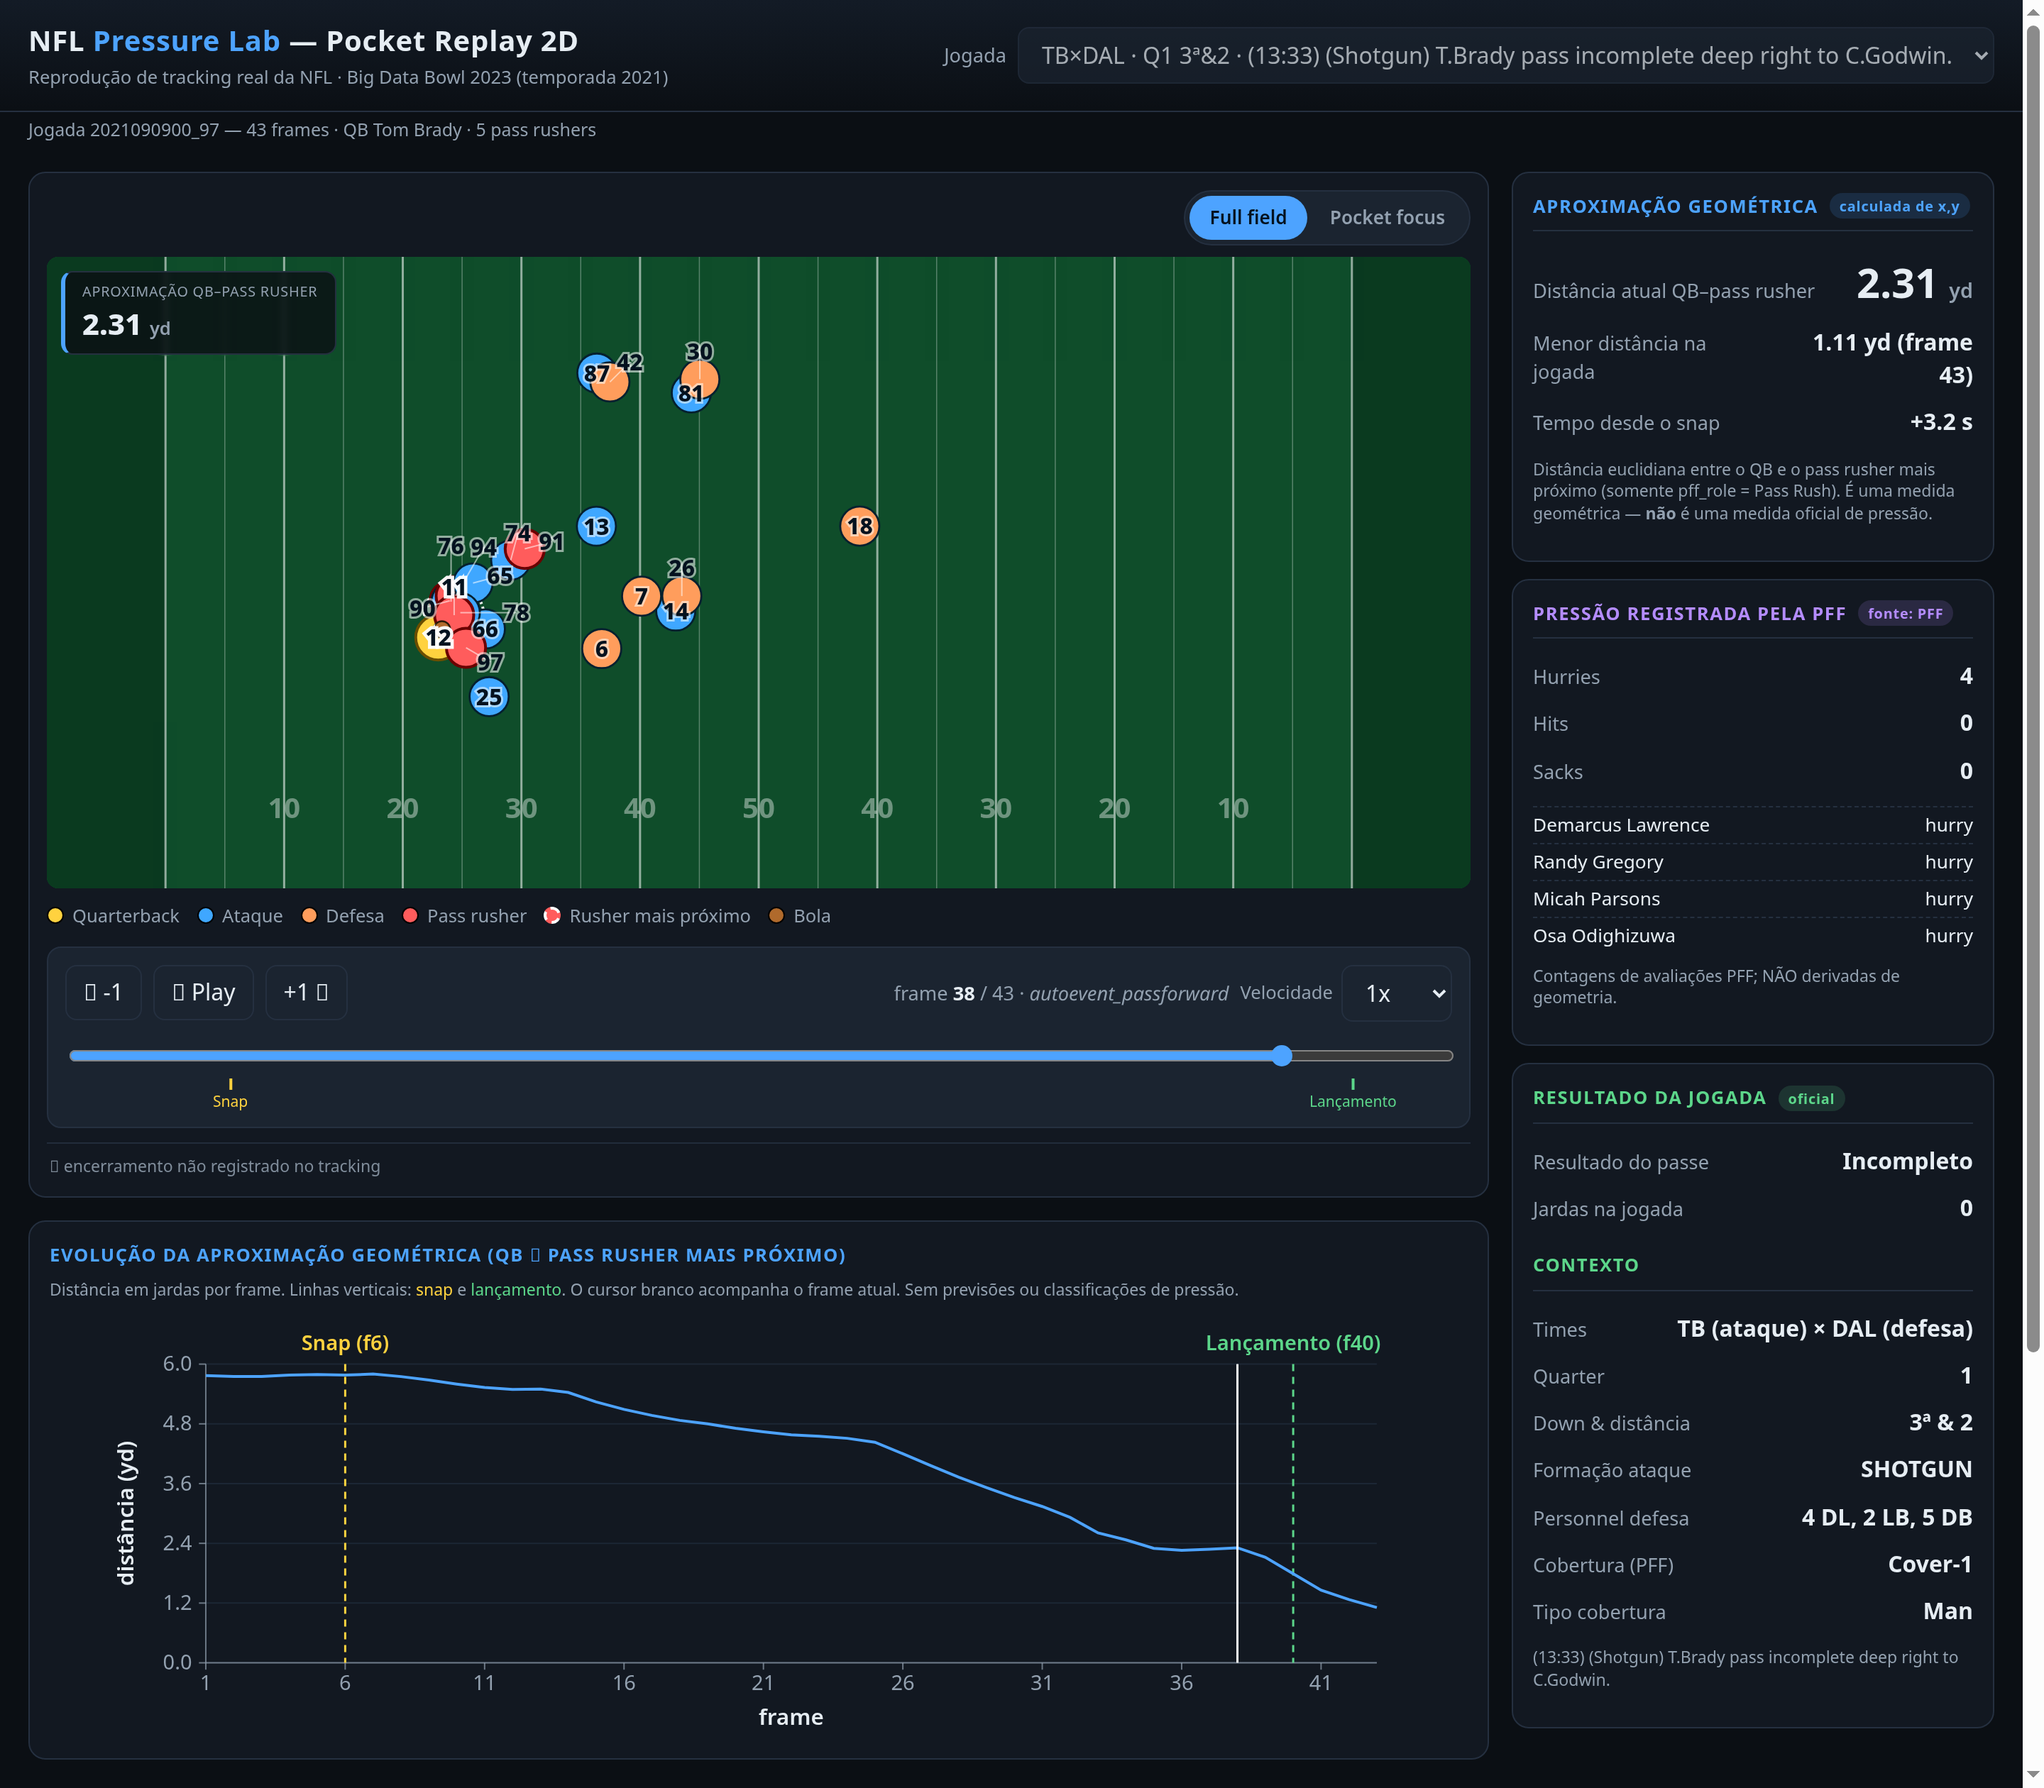
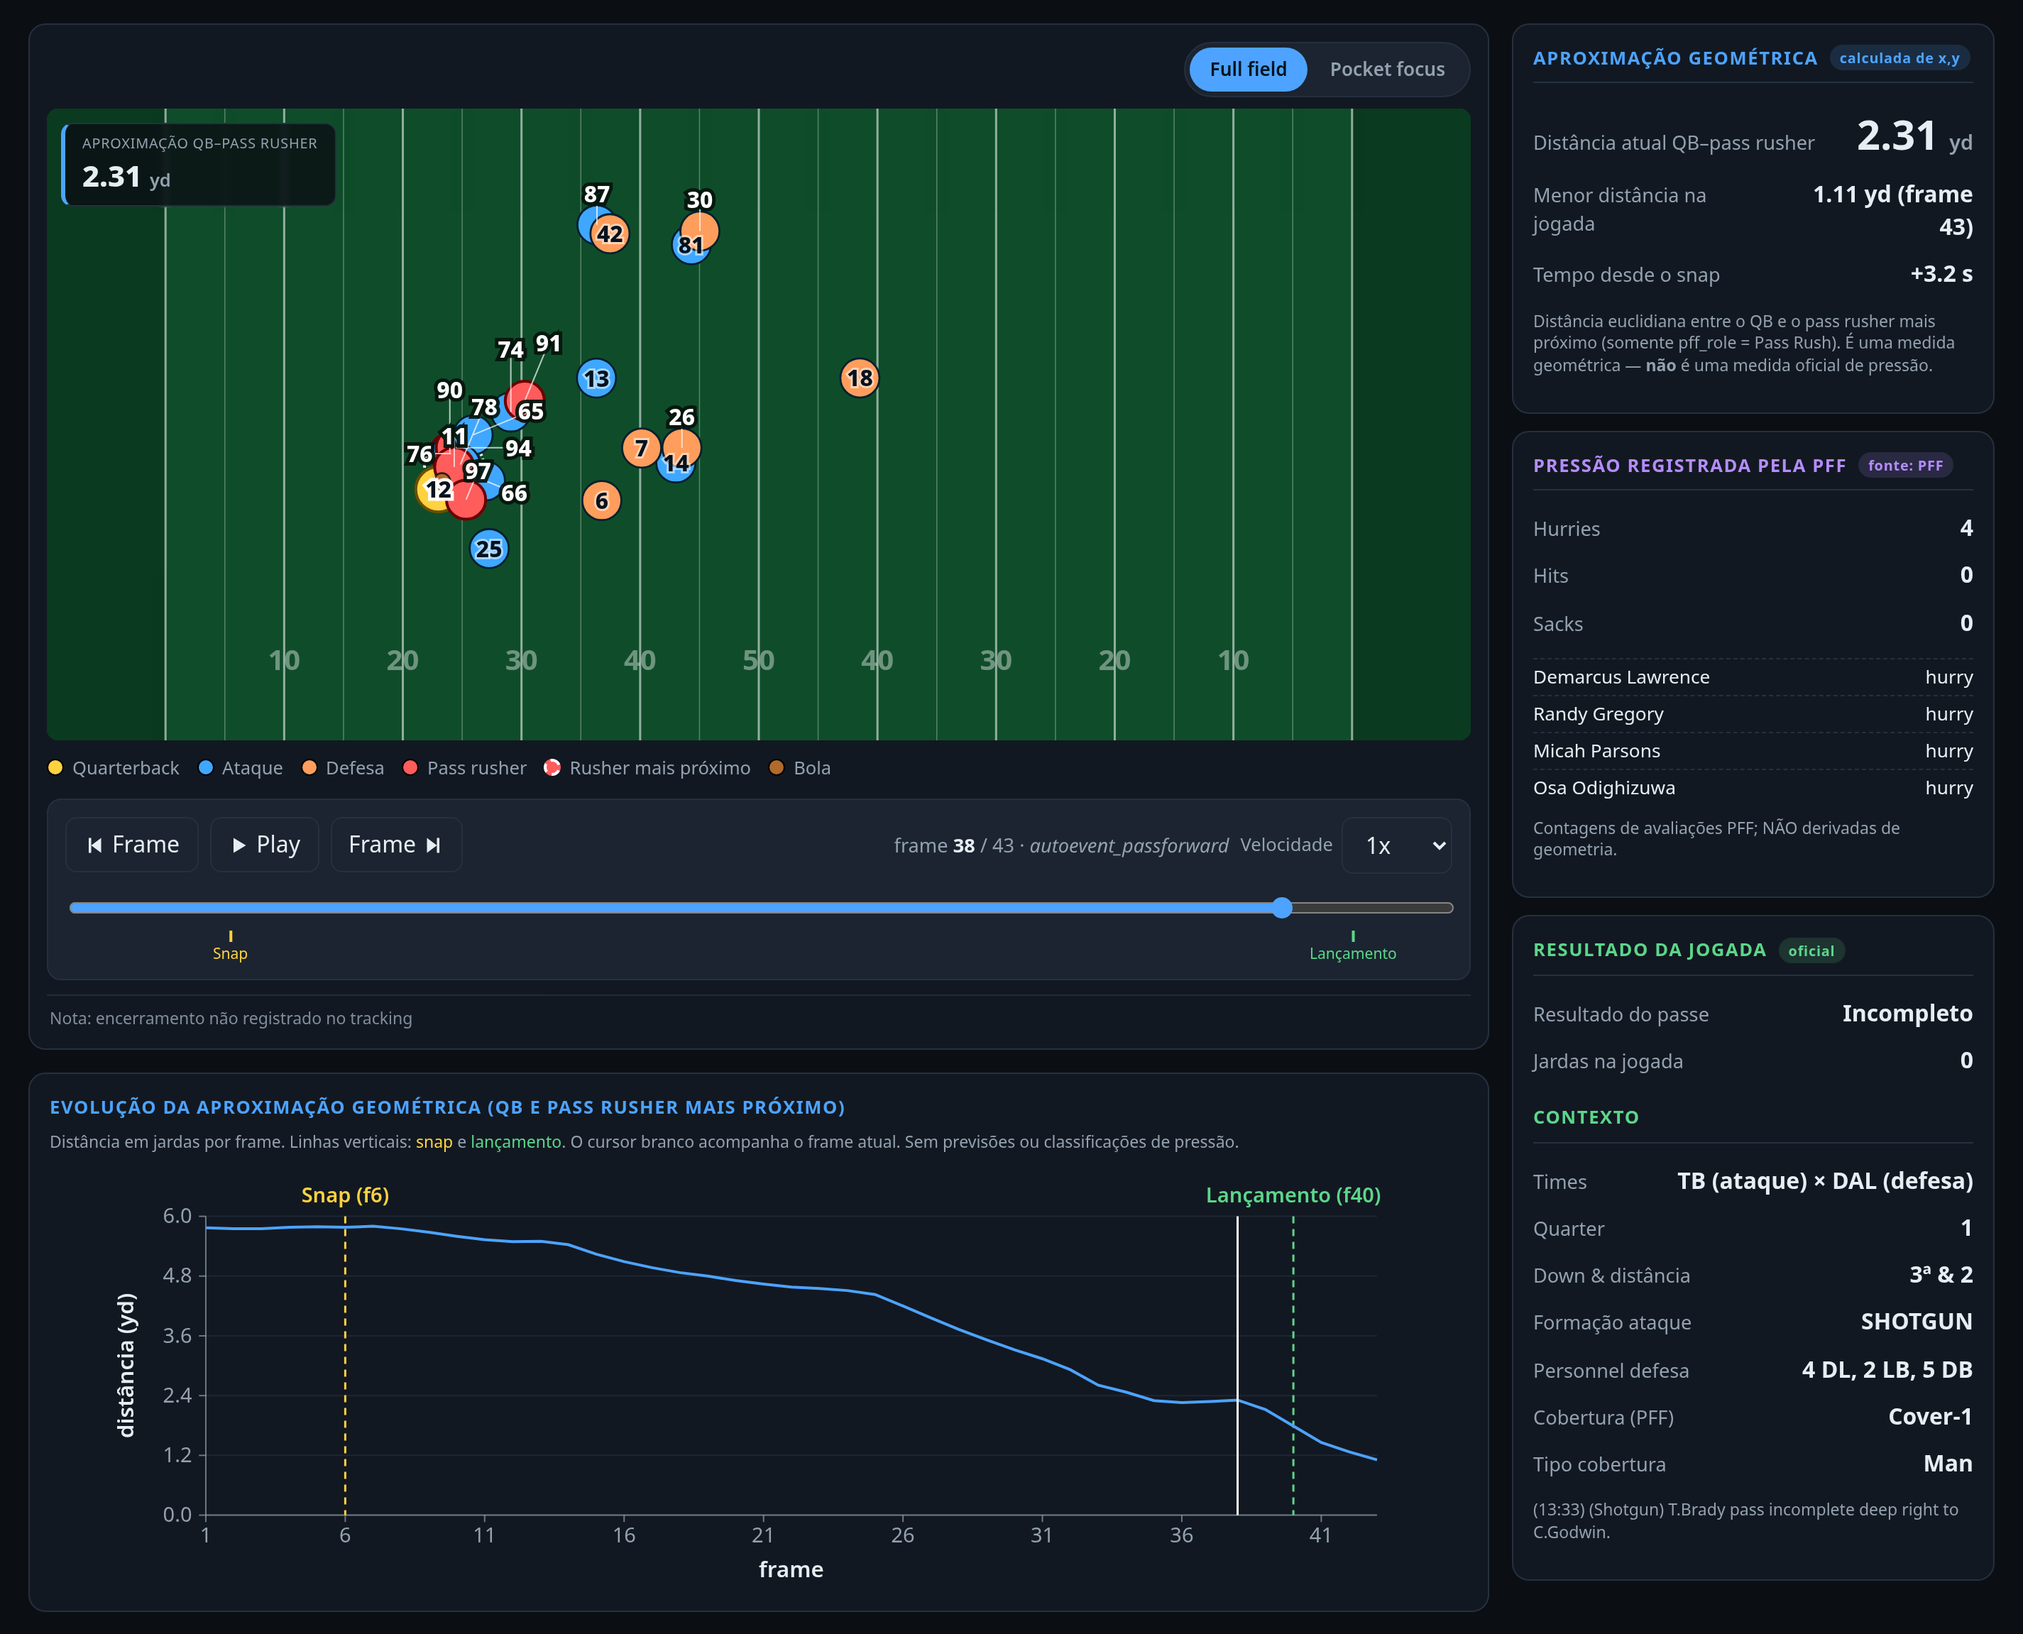
refac: rotulagem legível dos jogadores, imagem hero e ajustes de README

diff --git a/app/js/field-renderer.js b/app/js/field-renderer.js
@@ -238,50 +238,55 @@
     const positions = frame.positions || {};
     const closestId = frame.closest_rusher_nflId != null ? String(frame.closest_rusher_nflId) : null;
 
-    const scale = (this.lastVb && this.lastVb.w ? this.lastVb.w : FIELD_LEN) / FIELD_LEN;
-    // "raio" ocupado por um rótulo, em unidades de campo (proporcional ao zoom).
-    // No Pocket focus há bastante espaço na tela, então usamos um limiar menor
-    // para evitar deslocamentos (e linhas-guia) desnecessários; o Full field,
-    // mais denso, usa um limiar maior para separar os números.
-    // No Pocket focus os círculos ficam grandes na tela e comportam o número
-    // dentro deles; manter os rótulos centrados (sem deslocar) é mais limpo do
-    // que puxá-los para fora com linhas-guia. No Full field, denso, deslocamos.
-    // Estratégia por modo, baseada em evidência visual:
-    // - FULL FIELD: círculos pequenos e muitos jogadores agrupados; quando dois
-    //   números ficariam colados, deslocamos um para fora com linha-guia curta.
-    //   A colisão é medida em ESPAÇO DE TELA (o número tem tamanho fixo em px),
-    //   convertida para jardas via a escala atual do viewBox.
-    // - POCKET FOCUS: os círculos ficam grandes e comportam o número; manter os
-    //   números CENTRADOS nos círculos é mais legível do que puxá-los para fora
-    //   (o deslocamento no zoom "descola" o número do seu círculo). Não deslocar.
+    // Estratégia única de rótulos, com dois comportamentos coerentes:
+    // - FULL FIELD: círculos pequenos e muitos jogadores agrupados na linha de
+    //   scrimmage. O número começa centrado; se colidiria com outro já colocado,
+    //   é deslocado para a posição livre MAIS PRÓXIMA, com uma linha-guia curta.
+    // - POCKET FOCUS: os círculos são grandes e comportam o número; mantemos os
+    //   números centrados (deslocar "descolaria" o número do círculo no zoom).
+    // A colisão é medida em ESPAÇO DE TELA (o número tem tamanho fixo em px) e
+    // convertida para jardas pela escala atual do viewBox, para ser consistente
+    // nos dois modos.
     const isPocket = this.mode === "pocket";
     const svgPxW = this.svg.getBoundingClientRect().width || 1000;
     const vbW = (this.lastVb && this.lastVb.w) ? this.lastVb.w : FIELD_LEN;
-    const ydPerPx = vbW / svgPxW;                 // jardas por pixel de tela
-    const MIN_SEP_PX = 22;                         // separação mínima na tela
-    const labelRadius = isPocket ? 0 : (MIN_SEP_PX / 2) * ydPerPx;
-    const ringStep = MIN_SEP_PX * 0.9 * ydPerPx;   // passo do deslocamento (full)
+    const ydPerPx = vbW / svgPxW;                  // jardas por pixel de tela
+    const MIN_SEP_PX = isPocket ? 0 : 26;          // separação mínima na tela
+    const labelRadius = (MIN_SEP_PX / 2) * ydPerPx;
 
-    // ordem de colocação
+    // Ordem de colocação: QB e rusher mais próximo primeiro (têm prioridade de
+    // posição), depois os demais ORDENADOS por proximidade ao QB — assim o nó
+    // mais congestionado (linha de scrimmage) é resolvido primeiro, com folga.
+    const qbPos = this.qbId ? positions[this.qbId] : null;
+    const distToQb = (nflId) => {
+      const p = positions[nflId];
+      if (!p || !qbPos) return Infinity;
+      const dx = p.x - qbPos.x, dy = p.y - qbPos.y; return dx * dx + dy * dy;
+    };
+    const others = [];
+    this.playerNodes.forEach((_n, nflId) => {
+      if (nflId !== this.qbId && nflId !== closestId && positions[nflId]) others.push(nflId);
+    });
+    others.sort((a, b) => distToQb(a) - distToQb(b));
     const ids = [];
     if (this.qbId && positions[this.qbId]) ids.push(this.qbId);
     if (closestId && closestId !== this.qbId && positions[closestId]) ids.push(closestId);
-    this.playerNodes.forEach((_n, nflId) => {
-      if (nflId !== this.qbId && nflId !== closestId && positions[nflId]) ids.push(nflId);
-    });
+    ids.push(...others);
 
     const placed = []; // {x,y} centros dos rótulos já colocados
-    const collides = (x, y) => {
+    const freeAt = (x, y) => {
       const minD = labelRadius * 2;
       for (let i = 0; i < placed.length; i++) {
         const dx = placed[i].x - x, dy = placed[i].y - y;
-        if (dx * dx + dy * dy < minD * minD) return true;
+        if (dx * dx + dy * dy < minD * minD) return false;
       }
-      return false;
+      return true;
     };
-    // 24 direções candidatas para o deslocamento externo
+    // 16 direções; procuramos a posição livre mais próxima (menor anel), para
+    // que as linhas-guia fiquem curtas e limpas.
     const dirs = [];
-    for (let a = 0; a < 24; a++) { const t = (a / 24) * 2 * Math.PI; dirs.push([Math.sin(t), -Math.cos(t)]); }
+    for (let a = 0; a < 16; a++) { const t = (a / 16) * 2 * Math.PI; dirs.push([Math.sin(t), -Math.cos(t)]); }
+    const ringStep = MIN_SEP_PX * 0.85 * ydPerPx;
 
     ids.forEach((nflId, idx) => {
       const label = this.labelNodes.get(nflId);
@@ -296,14 +301,14 @@
 
       const cx = pos.x, cy = fy(pos.y);
       let lx = cx, ly = cy, external = false;
-      if (collides(cx, cy)) {
-        // procura a primeira posição externa livre, em anéis crescentes
+      if (!isPocket && !freeAt(cx, cy)) {
+        // menor anel livre => linha-guia curta
         let found = null;
-        for (let ring = 1; ring <= 7 && !found; ring++) {
+        for (let ring = 1; ring <= 8 && !found; ring++) {
           for (let di = 0; di < dirs.length; di++) {
             const tx = cx + dirs[di][0] * ringStep * ring;
             const ty = cy + dirs[di][1] * ringStep * ring;
-            if (!collides(tx, ty)) { found = { x: tx, y: ty }; break; }
+            if (freeAt(tx, ty)) { found = { x: tx, y: ty }; break; }
           }
         }
         if (found) { lx = found.x; ly = found.y; external = true; }
@@ -312,6 +317,9 @@
       label.setAttribute("x", lx);
       label.setAttribute("y", ly);
       label.setAttribute("visibility", "visible");
+      // rótulos externos ficam sobre o gramado; marcamos com classe para dar
+      // contraste (texto claro com contorno escuro), em vez de texto escuro.
+      if (external) label.classList.add("external"); else label.classList.remove("external");
       placed.push({ x: lx, y: ly });
 
       if (external && leader) {

diff --git a/app/css/styles.css b/app/css/styles.css
@@ -174,8 +174,16 @@ main > .chart-wrap { grid-column: 1; grid-row: 2; margin: 0; max-width: none; }
   stroke: rgba(255,255,255,0.95);
   stroke-width: calc(0.55px * var(--zoom-scale, 1)); font-weight: 800;
 }
+/* Rótulos externos (deslocados sobre o gramado): texto claro com contorno
+   escuro para contraste, em vez de texto escuro sobre o verde. */
+.jersey-label.external {
+  fill: #ffffff;
+  stroke: rgba(6, 20, 12, 0.92);
+  stroke-width: calc(0.6px * var(--zoom-scale, 1));
+}
+.jersey-label.priority.external { stroke: rgba(6, 20, 12, 0.95); }
 /* Linha-guia curta entre um jogador e seu rótulo deslocado. */
-.leader-line { stroke: rgba(255,255,255,0.55); stroke-width: 1; vector-effect: non-scaling-stroke; }
+.leader-line { stroke: rgba(255,255,255,0.7); stroke-width: 1; vector-effect: non-scaling-stroke; }
 
 .approach-line {
   stroke: var(--c-rusher); stroke-width: 2; stroke-dasharray: 4 3;

diff --git a/README.md b/README.md
@@ -4,9 +4,9 @@
 
 ### Race Against Time | Análise Tática da Pressão Defensiva
 
-Projeto desenvolvido para o Hackathon NFL Big Data Bowl RJ (AWS, NFL e Estácio).
+Aplicação web que reproduz o tracking real da NFL e mede a aproximação entre o quarterback e o pass rush, quadro a quadro.
 
-Projeto desenvolvido com apoio do Kiro, ferramenta da AWS, utilizando especificações técnicas, implementação e validação orientadas por requisitos.
+Desenvolvida para o Hackathon NFL Big Data Bowl RJ (AWS, NFL e Estácio), com apoio do Kiro (ferramenta da AWS) em um fluxo orientado por especificações: requisitos, design e tarefas versionados junto ao código.
 
 <br />
 
@@ -36,7 +36,7 @@ O NFL Pressure Lab é uma aplicação web de engenharia de dados e visualizaçã
 
 <div align="center">
 
-<img src="docs/images/pocket-replay-fullfield.png" alt="Captura principal do replay no modo Full field, no frame 38 (pass forward detectado automaticamente, 3,2 s após o snap)" width="860" />
+<img src="docs/images/hero-pocket.png" alt="Pocket focus no frame do lançamento: quarterback (12) e o pass rusher mais próximo (97) a 1,79 jarda" width="880" />
 
 </div>
 
@@ -72,17 +72,29 @@ A aplicação está funcional. Os componentes abaixo estão concluídos.
 
 Visualizações estáticas da jogada demonstrativa 2021090900 / 97 (TB x DAL). São todas a mesma jogada, em recortes e gráficos diferentes. Na aplicação, estas imagens formam a galeria "Visualizações complementares", com a explicação completa exibida ao ampliar cada imagem.
 
-A captura principal do modo Full field está no início deste documento. As demais visualizações estão abaixo.
+A imagem de abertura, no topo do documento, mostra o modo Pocket focus no frame do lançamento. As visualizações abaixo detalham a interface e a análise.
 
-Pocket focus
+Interface completa (modo Full field)
 
-- O que mostra: um enquadramento ampliado da região do quarterback, para facilitar a leitura da movimentação dos defensores próximos.
-- Como interpretar: o contorno tracejado destaca o pass rusher mais próximo no frame mostrado. O zoom altera apenas a visualização.
+- O que mostra: a interface no frame 38, com o campo inteiro, os controles de reprodução, o painel das três camadas de informação e o gráfico temporal.
+- Como interpretar: por padrão, todos os jogadores com número disponível são identificados; quando dois números ficariam sobrepostos, um deles é deslocado com uma linha-guia curta e recebe contorno para contraste sobre o gramado. Na aglomeração da linha de scrimmage, o número de cada jogador também aparece ao passar o cursor, focar pelo teclado ou tocar no marcador.
+- Observação: o frame 38 (pass forward detectado automaticamente, 3,2 s após o snap) mantém os recebedores espalhados, o que facilita a leitura do conjunto.
+
+<div align="center">
+
+![Interface completa no modo Full field](docs/images/pocket-replay-fullfield.png)
+
+</div>
+
+Pocket focus (interface completa)
+
+- O que mostra: a mesma interface no modo Pocket focus, ampliando a região do quarterback no frame do lançamento.
+- Como interpretar: o contorno tracejado destaca o pass rusher mais próximo. O zoom altera apenas a visualização.
 - Observação: o zoom não altera as coordenadas dos jogadores nem as distâncias calculadas.
 
 <div align="center">
 
-![Modo Pocket focus](docs/images/pocket-replay-pocketfocus.png)
+![Modo Pocket focus, interface completa](docs/images/pocket-replay-pocketfocus.png)
 
 </div>
 
